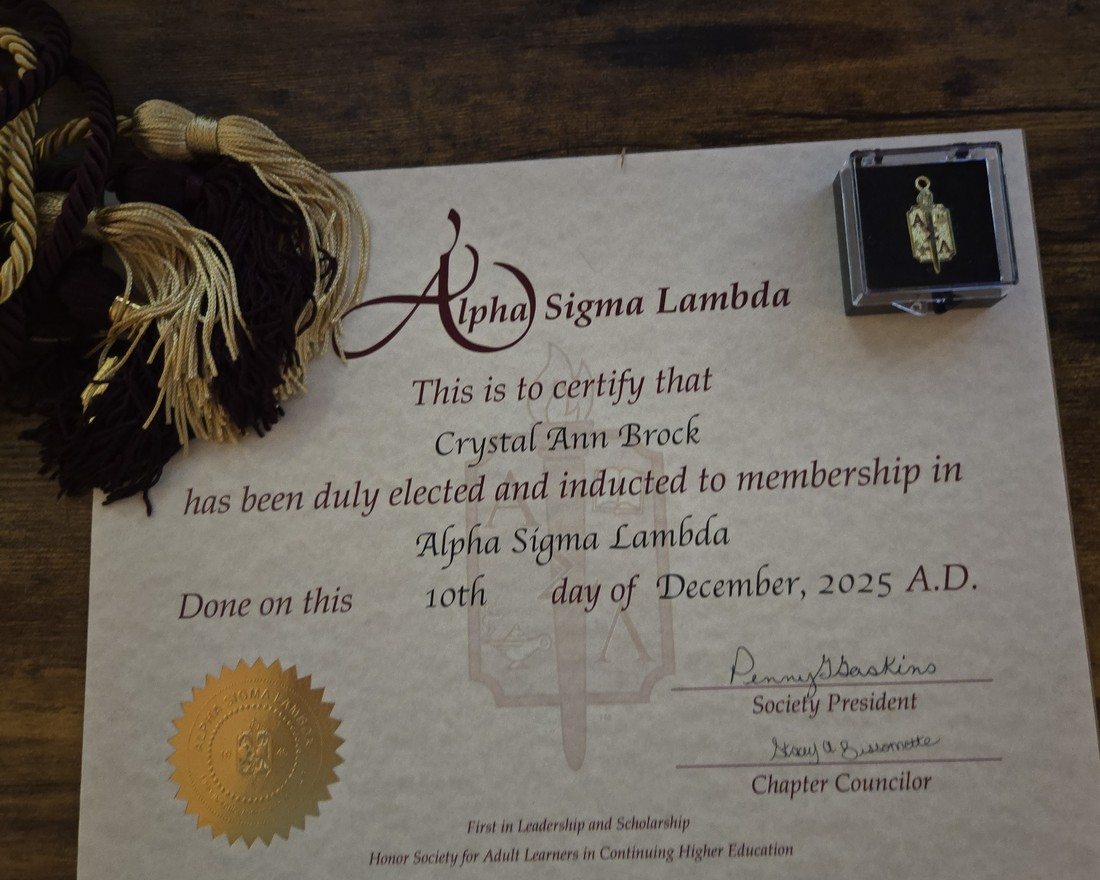
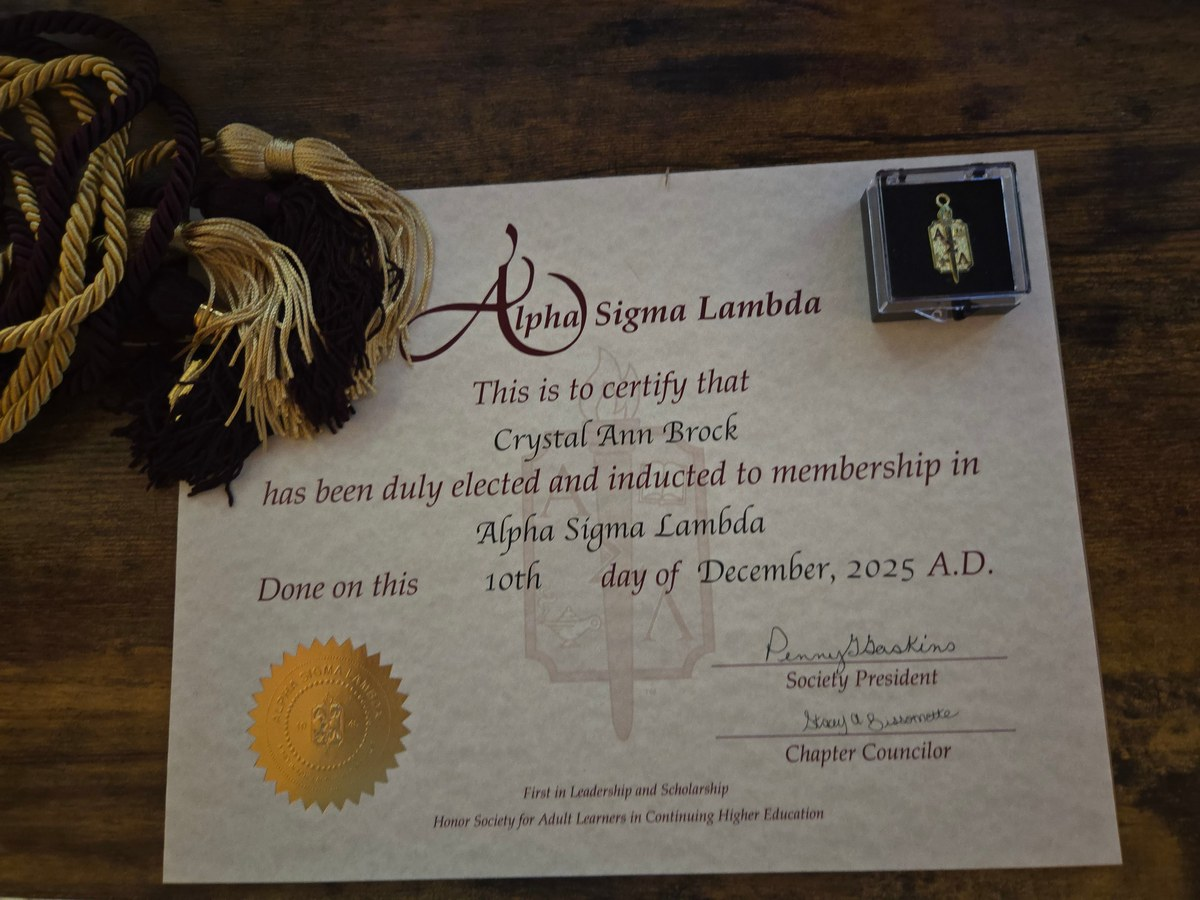
Use Crystal's own framing of the certificate
Replaces my crop, which cut the honor cords mid-sweep and cramped the
frame. Hers keeps the cords leading in from the left and leaves the
certificate room to sit at its angle, which the tighter crop flattened.

Rotation was done properly in GIMP, so the pixels are already correct and
the file carries no EXIF. No crop applied here at all; the only change is
a resize from 4000x3000 to 1200x900, which is 18 times smaller on the
wire and still sharp at the size it renders.

diff --git a/about.html b/about.html
@@ -95,7 +95,7 @@
       </div>
 
       <figure class="story-figure">
-        <img src="assets/asl-certificate.jpg" alt="Alpha Sigma Lambda induction certificate, honor cords and lapel pin" loading="lazy" width="1100" height="880">
+        <img src="assets/asl-certificate.jpg" alt="Alpha Sigma Lambda induction certificate, honor cords and lapel pin" loading="lazy" width="1200" height="900">
         <figcaption>Alpha Sigma Lambda, December 2025. The honor society for adult learners, which felt like the right one to be in.</figcaption>
       </figure>
     </div>
